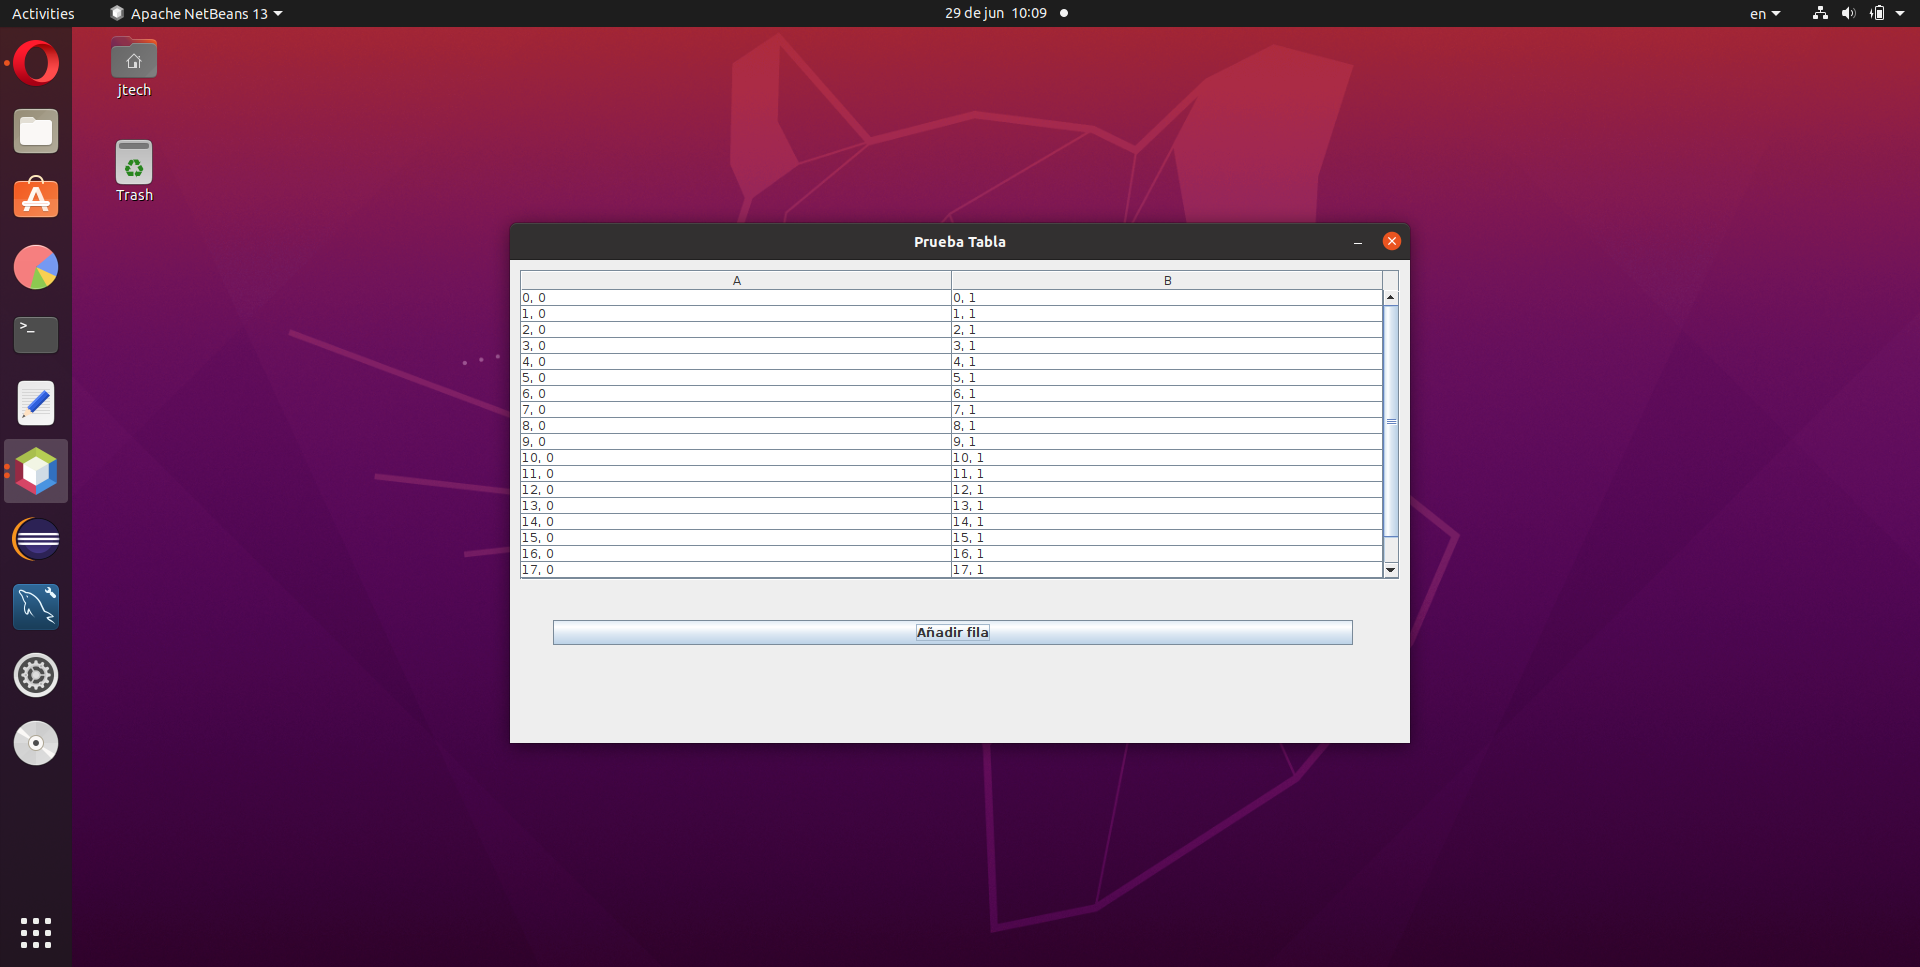
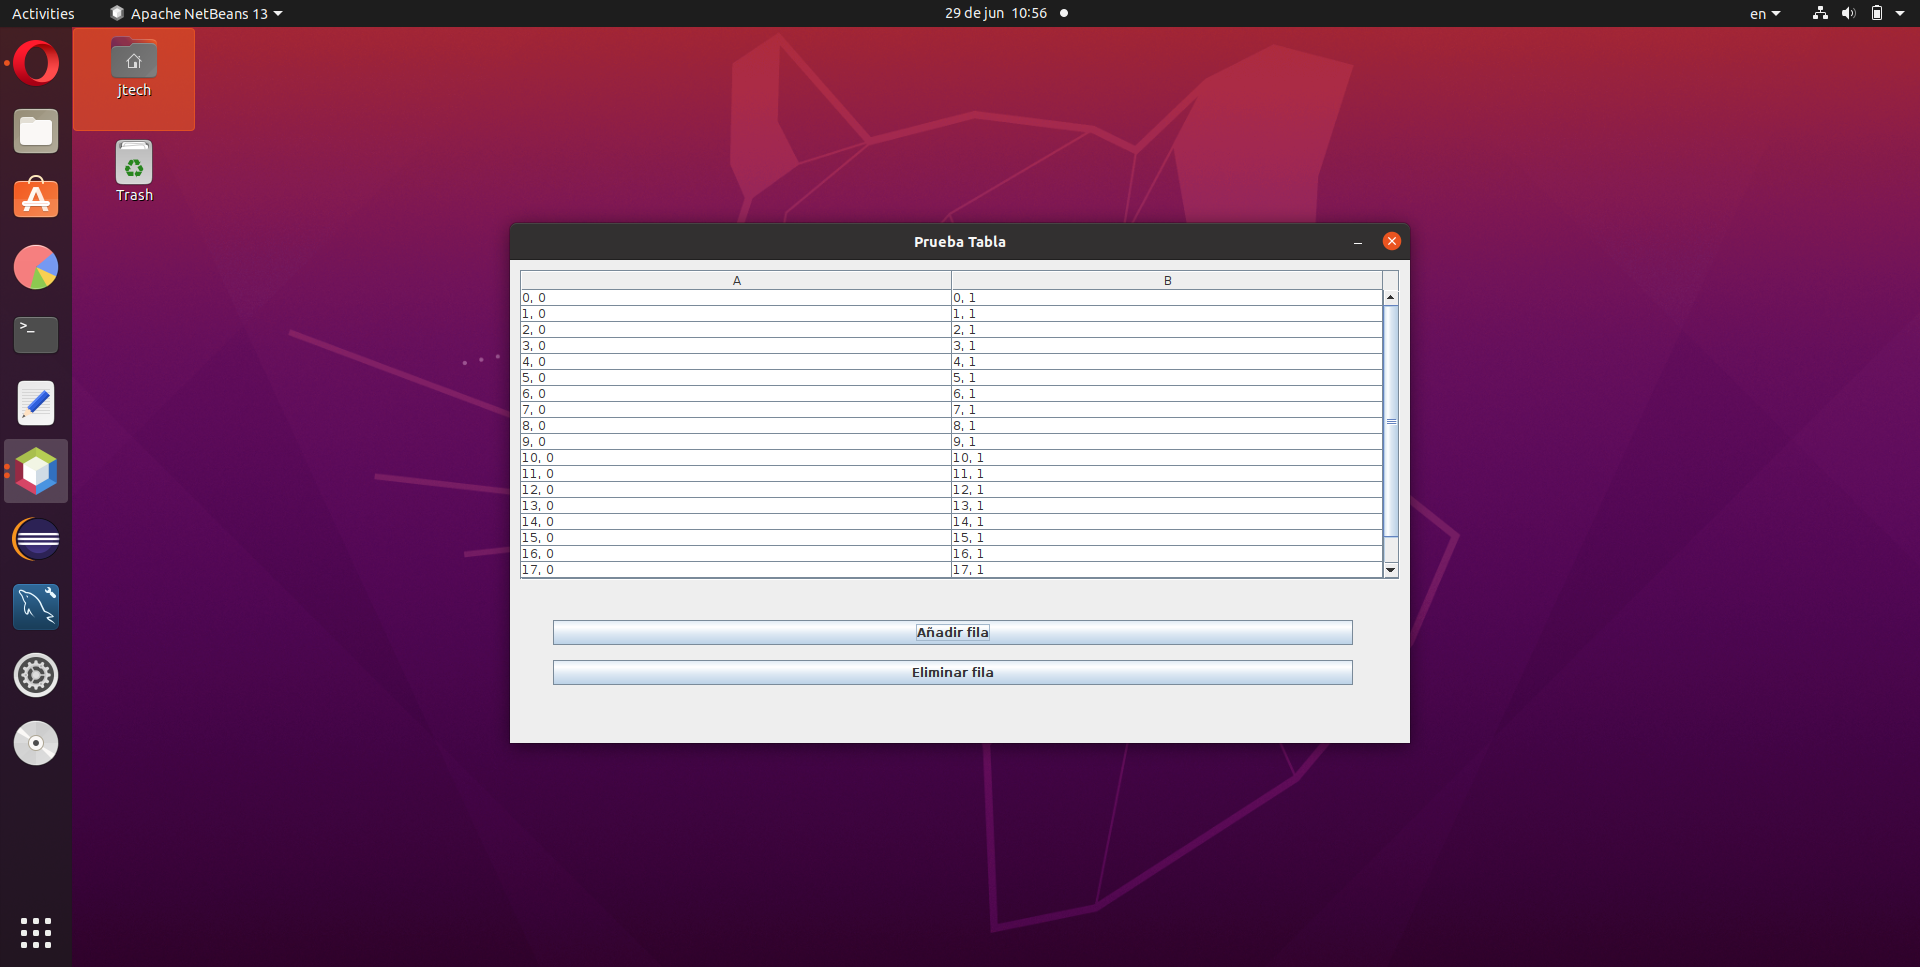
delete rows

Changed region(s): [[0.2812, 0.6825, 0.7188, 0.7135], [0.0312, 0.031, 0.125, 0.1551]]

diff --git a/src/pruebatabla/PruebaTabla.java b/src/pruebatabla/PruebaTabla.java
@@ -33,6 +33,12 @@ public class PruebaTabla {
             numFilas++;
             fireTableRowsInserted(numFilas - 1, numFilas - 1);
         }
+        public void eliminaFila() {
+            if (numFilas >= 1){
+                numFilas--;
+                fireTableRowsInserted(numFilas - 1, numFilas - 1);
+            }
+        }
     };
 
     public static void main(String[] args) {
@@ -56,6 +62,14 @@ public class PruebaTabla {
         });
         
         frame.add(botonAnadeFila);
+        
+        JButton botonEliminarFila = new JButton("Eliminar fila");
+        botonEliminarFila.setBounds(43, 400, 800, 25);
+        botonEliminarFila.addActionListener((ActionEvent e) -> {
+            modeloTabla.eliminaFila();
+        });
+        
+        frame.add(botonEliminarFila);
         
         SwingUtilities.invokeLater(() -> {
             frame.setSize(900, 520);

diff --git a/README.md b/README.md
@@ -1,2 +1,4 @@
 # PruebaTabla-AbstractTableModel
 Pruebas JTable con modelo de datos que hereda de la clase AbstracTableMode para interfaces administrativas.
+
+![This is an image](screenshots/screenshot-1.png)
